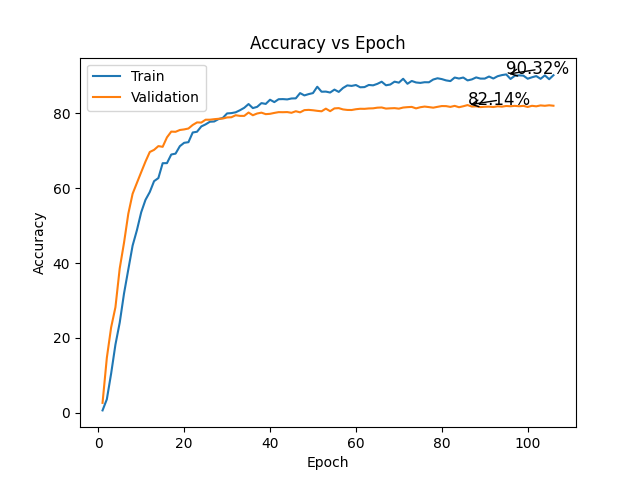
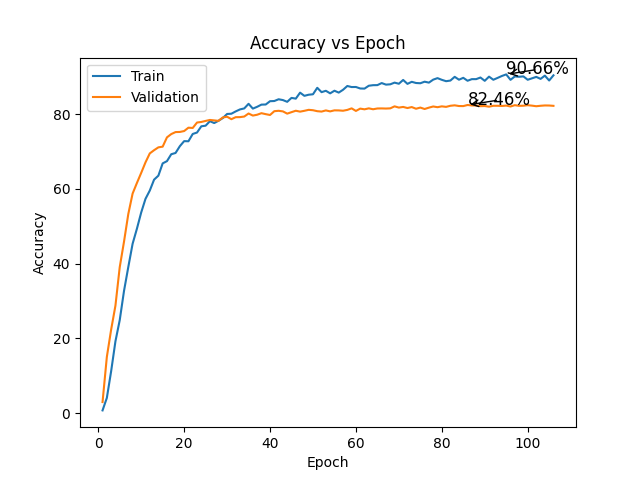
correct metrics calculations + corrected overfitting problems

diff --git a/src/experiments/baseline_resnetv2.py b/src/experiments/baseline_resnetv2.py
@@ -19,7 +19,9 @@ from models.resnet50_conv_compressionV2 import ResNet50_convV2, ResNet50_convV3_
 
 from optimizers.sgd import SGDOptimizer, SGDOptimizerVariableLR
 from optimizers.adam import AdamOptimizer
-from optimizers.adam_lr_var import AdamOptimizerVar
+# from optimizers.adam_lr_var import AdamOptimizerVar
+from optimizers.adam_lr_var_test import AdamOptimizerVar
+
 from schedulers.cosine import CosineAnnealingLRWrapper, CosineAnnealingLRWrapperWithWarmup
 from trainers.resnets_trainer import ResnetTrainer
 from loss.ce import CustomCrossEntropyLoss
@@ -52,14 +54,14 @@ def main_resnet():
             print(f"Directory {directory_path} already exists.")
 
   
-    def create_optimizer(model, lr,weight_decay):        
-        temp = AdamOptimizer(model.parameters(), lr=lr, betas=(0.9, 0.999), eps=1e-08, weight_decay=0, amsgrad=False)
-        optimizer = temp.get_optimizer()
-        optimizer.actual_optimizer_name = type(optimizer).__name__
-        return optimizer    
+    # def create_optimizer(model, lr,weight_decay):        
+    #     temp = AdamOptimizer(model.parameters(), lr=lr, betas=(0.9, 0.999), eps=1e-08, weight_decay=0, amsgrad=False)
+    #     optimizer = temp.get_optimizer()
+    #     optimizer.actual_optimizer_name = type(optimizer).__name__
+    #     return optimizer    
 
     
-    def create_optimizer_var_lr(model, lr,weight_decay):        
+    def create_optimizer_var_lr(model, lr, weight_decay):        
         temp = AdamOptimizerVar(model, lr=lr, betas=(0.9, 0.999), eps=1e-08, weight_decay=0, amsgrad=False)
         optimizer = temp.get_optimizer()
         optimizer.actual_optimizer_name = type(optimizer).__name__
@@ -69,16 +71,16 @@ def main_resnet():
     #     optimizer = SGDOptimizer(model, lr=lr, momentum=0.9, weight_decay=weight_decay)
     #     return optimizer.get_optimizer()
     
-    def create_optimizer_var_sgd(model, lr,weight_decay):
-        temp = SGDOptimizerVariableLR(model, lr=lr, momentum=0.9, weight_decay=weight_decay)
-        optimizer = temp.get_optimizer()
-        optimizer.actual_optimizer_name = type(optimizer).__name__
-        return optimizer 
+    # def create_optimizer_var_sgd(model, lr,weight_decay):
+    #     temp = SGDOptimizerVariableLR(model, lr=lr, momentum=0.9, weight_decay=weight_decay)
+    #     optimizer = temp.get_optimizer()
+    #     optimizer.actual_optimizer_name = type(optimizer).__name__
+    #     return optimizer 
     
-    def create_scheduler_cos(optimizer, T_max,  eta_min=0.01):
-        scheduler = CosineAnnealingLRWrapper(optimizer, T_max, eta_min=eta_min)
-        scheduler.actual_scheduler_name = type(scheduler).__name__
-        return scheduler 
+    # def create_scheduler_cos(optimizer, T_max,  eta_min=0.01):
+    #     scheduler = CosineAnnealingLRWrapper(optimizer, T_max, eta_min=eta_min)
+    #     scheduler.actual_scheduler_name = type(scheduler).__name__
+    #     return scheduler 
     
     def create_scheduler_cosw(optimizer, T_max=100, warmup_epochs=20, warmup_decay="cosine"):
         scheduler = CosineAnnealingLRWrapperWithWarmup(optimizer, T_max=100, warmup_epochs=20, warmup_decay="cosine")
@@ -155,7 +157,8 @@ def main_resnet():
     # epochs = 750
     # lr=0.00001      # lr=0.5
     # lr=0.000009
-    lr = 0.00007
+    # lr = 0.00007
+    lr = 0.00007 # 
     # lr=0.01
     # lr = 0.000008
 
@@ -238,7 +241,7 @@ def main_resnet():
         
         # model = ResNet50_conv(feature_size, num_classes_cub200, weights=ResNet50_Weights.DEFAULT, pretrained_weights=None)
         model = ResNet50_convV2(feature_size, num_classes_cub200, weights=ResNet50_Weights.DEFAULT, pretrained_weights=None)
-
+        # model = ResNet50_convV3_BN(feature_size, num_classes_cub200, weights=ResNet50_Weights.DEFAULT, pretrained_weights=None)
         ######################################################################################################################
 
         model.fine_tune_mode()

diff --git a/src/trainers/resnets_trainer.py b/src/trainers/resnets_trainer.py
@@ -36,7 +36,7 @@ class ResnetTrainer():
         self.metric_eval = Accuracy(task="multiclass", num_classes=self.num_classes) 
         self.device = device
         self.actual_epochs_run = 0
-        self.min_epochs_for_early_stopping = 15
+        self.min_epochs_for_early_stopping = 20
         if device:
             self.device = device
         else:
@@ -65,7 +65,7 @@ class ResnetTrainer():
             self.counter = 0  # Reset counter
         else:
             self.counter += 1
-            if counter >= patience:
+            if self.counter >= self.patience:
                 print(f"\nEarly stopping triggered at epoch: {self.actual_epochs_run}.")
 
                 # insert logic for config file
@@ -87,7 +87,6 @@ class ResnetTrainer():
             training_loss = 0.0
             # is_last_batch = False 
             for batch_idx, data in enumerate(self.trainloader):
-            # for data in self.trainloader:
                 inputs, labels = data
                 inputs, labels = inputs.to(self.device), labels.to(self.device)                
                 self.optimizer.zero_grad()
@@ -99,9 +98,8 @@ class ResnetTrainer():
             
                 # Calculating accuracy using torchmetrics inside the loop for each batch
                 acc = self.metric(outputs.softmax(dim=-1), labels)
-                # more compactly
-                # self.metric(outputs.softmax(dim=-1), labels)
-                batch_accuracies.append(acc.item() * 100)  # Storing batch-wise accuracy
+
+
 
             if self.scheduler is not None:
                 self.scheduler.step()
@@ -112,8 +110,6 @@ class ResnetTrainer():
             self.accumulated_val_accuracies.append(average_validation_accuracy)
             self.training_loss_list.append(training_loss / len(self.trainloader))
             epoch_accuracy = self.metric.compute().item() * 100  # Compute the accumulated accuracy
-            # the above can be re-written as
-            # epoch_accuracy = acc.compute().item() * 100
             self.training_accuracy.append(epoch_accuracy)
             self.actual_epochs_run += 1
 
@@ -123,9 +119,7 @@ class ResnetTrainer():
                 if stop_training:
                     break  # Stop training
 
-            # self.training_loss.append(training_loss / len(self.trainloader.dataset))
-            # print(f'Epoch {epoch+1}, Training Loss: {training_loss / len(self.trainloader):.4f}, Training Accuracy: {epoch_accuracy:.4f}%')
-            print(f'Epoch {epoch + 1}, Training Loss: {training_loss / len(self.trainloader):.4f}, Training Accuracy: {epoch_accuracy:.4f}, Validation Loss: {average_validation_loss:.4f}, Validation Accuracy: {average_validation_accuracy:.4f}')
+            print(f'Epoch {epoch + 1}/{self.epochs}, Training Loss: {training_loss / len(self.trainloader):.4f}, Training Accuracy: {epoch_accuracy:.4f}, Validation Loss: {average_validation_loss:.4f}, Validation Accuracy: {average_validation_accuracy:.4f}')
 
 
             if self.metrics_logger is not None:
@@ -181,7 +175,7 @@ class ResnetTrainer():
             # Compute the accumulated metrics
             epoch_accuracy_eval = self.metric_eval.compute().item() * 100
             avg_loss_over_batch = running_loss / total_batches
-            
+            self.metric_eval.reset()
             # print(f'Val Epoch, Validation Loss: {avg_loss_over_batch:.4f}, Validation Accuracy: {epoch_accuracy_eval:.2f}%')
 
         avg_loss_over_batch = running_loss / total_batches

diff --git a/src/tests/testing_vanilla_resnet.py b/src/tests/testing_vanilla_resnet.py
@@ -44,24 +44,25 @@ def main_resnet_test():
             print(f"Directory {directory_path} already exists.")
 
   
-    def create_optimizer(model, lr,weight_decay):        
-        optimizer = AdamOptimizer(model.parameters(), lr=lr, betas=(0.9, 0.999), eps=1e-08, weight_decay=0, amsgrad=False)
-        return optimizer.get_optimizer()
+    # def create_optimizer(model, lr,weight_decay):        
+    #     optimizer = AdamOptimizer(model.parameters(), lr=lr, betas=(0.9, 0.999), eps=1e-08, weight_decay=0, amsgrad=False)
+    #     return optimizer.get_optimizer()
     
-    def create_optimizer_var_lr(model, lr,weight_decay):        
+    def create_optimizer_var_lr(model, lr, weight_decay):        
         optimizer = AdamOptimizerVar(model, lr=lr, betas=(0.9, 0.999), eps=1e-08, weight_decay=0, amsgrad=False)
         return optimizer.get_optimizer()
+    
     # def create_optimizer_sgd(model, lr,weight_decay):
     #     optimizer = SGDOptimizer(model, lr=lr, momentum=0.9, weight_decay=weight_decay)
     #     return optimizer.get_optimizer()
     
-    def create_optimizer_var_sgd(model, lr,weight_decay):
-        optimizer = SGDOptimizerVariableLR(model, lr=lr, momentum=0.9, weight_decay=weight_decay)
-        return optimizer.get_optimizer()
+    # def create_optimizer_var_sgd(model, lr,weight_decay):
+    #     optimizer = SGDOptimizerVariableLR(model, lr=lr, momentum=0.9, weight_decay=weight_decay)
+    #     return optimizer.get_optimizer()
     
-    def create_scheduler_cos(optimizer, T_max,  eta_min=0.01):
-        scheduler = CosineAnnealingLRWrapper(optimizer, T_max, eta_min=eta_min)
-        return scheduler
+    # def create_scheduler_cos(optimizer, T_max,  eta_min=0.01):
+    #     scheduler = CosineAnnealingLRWrapper(optimizer, T_max, eta_min=eta_min)
+    #     return scheduler
     
     def create_scheduler_cosw(optimizer, T_max=100, warmup_epochs=20, warmup_decay="cosine"):
         scheduler = CosineAnnealingLRWrapperWithWarmup(optimizer, T_max=100, warmup_epochs=20, warmup_decay="cosine")
@@ -104,7 +105,8 @@ def main_resnet_test():
     # epochs = 1000 #1 # 500
     epochs = 1000
     # lr=0.00001 # best results with 256 batch size
-    lr = 0.000068
+    # lr = 0.000068
+    lr = 0.00007
     # lr=0.5
     # lr=0.0001 # Epoch 107/1000, Train Loss: 1.1535, Train Acc: 93.3267, Val Loss: 1.7170, Val Acc: 82.7235
     # lr = 0.01 # Epoch 154/1000, Train Loss: 1.4609, Train Acc: 86.8368, Val Loss: 2.0907, Val Acc: 72.8512

diff --git a/src/optimizers/adam_lr_var.py b/src/optimizers/adam_lr_var.py
@@ -2,7 +2,7 @@ import torch.optim as optim
 from torch.optim import Adam
 
 class AdamOptimizerVar:
-    def __init__(self, model, lr=0.001, betas=(0.9, 0.999), eps=1e-08, weight_decay=0, amsgrad=False):
+    def __init__(self, model, lr=0.001, betas=(0.9, 0.999), eps=1e-08, weight_decay=1e-5, amsgrad=False):
         # Validate that the model has the expected attributes
         # for attr in ['conv1', 'bn1', 'layer1', 'layer2', 'layer3', 'layer4', 'fc']:
         #     if not any(hasattr(layer, attr) for layer in self.model.features):

diff --git a/src/models/resnet50_conv_compressionV2.py b/src/models/resnet50_conv_compressionV2.py
@@ -23,7 +23,7 @@ class ResNet50_convV2(nn.Module):
             model.avgpool,
             nn.Conv2d(2048, features_size, 1, 1, 0),
             nn.ReLU(),
-            nn.Dropout(0.4),
+            nn.Dropout(0.38),
             nn.Flatten()
         )
 
@@ -77,7 +77,7 @@ class ResNet50_convV3_BN(nn.Module):
             model.avgpool,
             nn.Conv2d(2048, features_size, 1, 1, 0),
             nn.ReLU(),
-            nn.Dropout(0.37),
+            nn.Dropout(0.35),
             nn.Flatten()
         )
 
